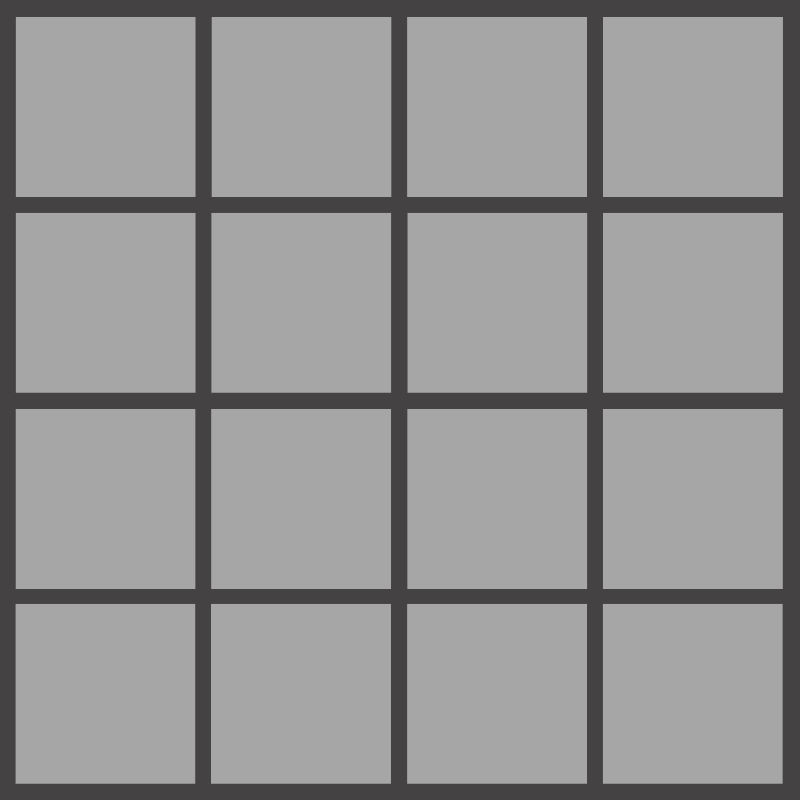
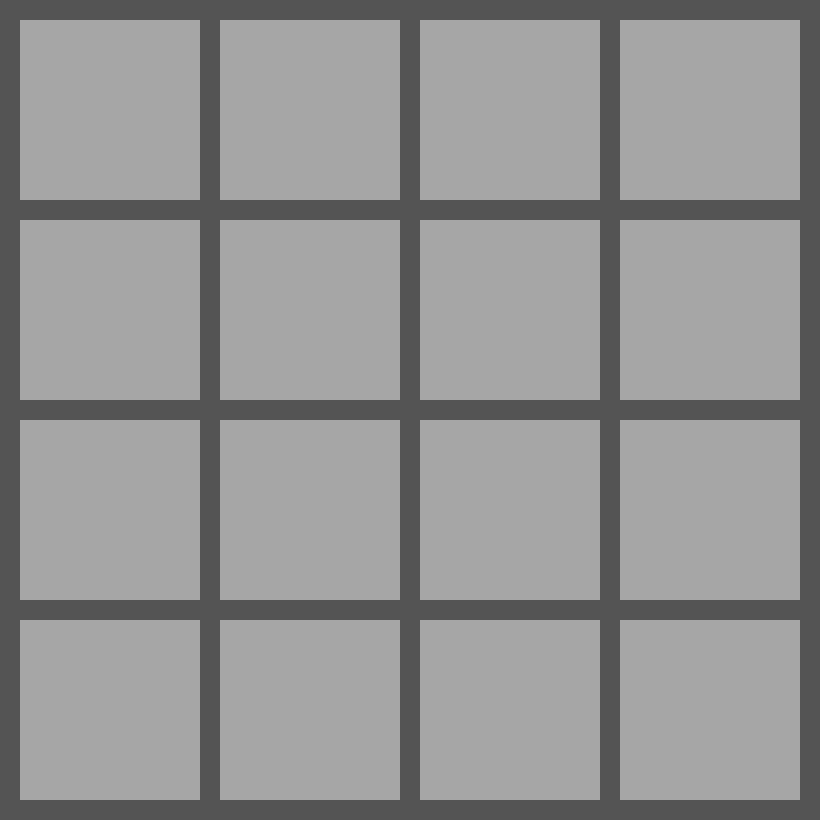
New Grid 820x820 with blocs of 180px and distance of 20px Set points system show + count I found Some bugs in deplacements but I don't know the cause

diff --git a/game.py b/game.py
@@ -7,13 +7,13 @@ class Game:
         self.screen = screen
         # Background
         self.background = pygame.image.load("assets/grid.png")
-        self.background = pygame.transform.scale(self.background, (800, 800))
+        #self.background = pygame.transform.scale(self.background, (800, 800))
         self.background_color = "darkgray"
 
         # Constant
-        self.platform = 16
-        self.TOP_SIZE = 200
-        self.BLOC_SIZE = (self.screen.get_width() - 16*5)/4
+        self.platform = 20
+        self.TOP_SIZE = 172
+        self.BLOC_SIZE = (self.screen.get_width() - self.platform*5)/4
 
         # Grid
         self.grid = [[(self.platform, self.platform + self.TOP_SIZE),
@@ -36,6 +36,13 @@ class Game:
                       (self.platform * 3 + self.BLOC_SIZE * 2, self.platform * 4 + self.BLOC_SIZE * 3 + self.TOP_SIZE),
                       (self.platform * 4 + self.BLOC_SIZE * 3, self.platform * 4 + self.BLOC_SIZE * 3 + self.TOP_SIZE)]]
 
+        # Points
+        self.points = 0
+        self.font_point = pygame.font.SysFont("Arial", 75)
+        self.font_point_x = self.screen.get_width()/2
+        self.font_point_y = 75
+
+
         # Blocs
         self.id = 0
         self.font_bloc = pygame.font.SysFont("Arial", 40)
@@ -54,10 +61,10 @@ class Game:
                 self.blocs_coos = []"""
 
 
-    def set_font_position(self, x, y, value, font):
+    def set_font_position(self, x, y, value, font, surface):
         font_size = font.size(str(value))
-        x_ = x + self.BLOC_SIZE/2 - font_size[0]/2
-        y_ = y + self.BLOC_SIZE/2 - font_size[1]/2
+        x_ = x + surface/2 - font_size[0]/2
+        y_ = y + surface/2 - font_size[1]/2
         return (x_, y_)
 
     def get_2_power(self, num):
@@ -85,12 +92,14 @@ class Game:
 
     def update(self):
         self.screen.fill(self.background_color)
-        self.screen.blit(self.background, (0, 200))
+        self.screen.blit(self.background, (0, self.TOP_SIZE))
+        self.screen.blit(self.font_point.render(str(self.points), True, (0, 0, 0)),
+                         self.set_font_position(self.font_point_x, self.font_point_y, self.points, self.font_point, 0))
         for bloc in self.blocs:
             pygame.draw.rect(self.screen, self.set_color(bloc.value),
                              (bloc.rect.x, bloc.rect.y, bloc.rect.width, bloc.rect.height))
             self.screen.blit(self.font_bloc.render(str(bloc.value), True, (0, 0, 0)),
-                             self.set_font_position(bloc.rect.x, bloc.rect.y, bloc.value, self.font_bloc))
+                             self.set_font_position(bloc.rect.x, bloc.rect.y, bloc.value, self.font_bloc, self.BLOC_SIZE))
             if self.direction == 'left':
                 if not bloc.moved:
                     bloc.left()
@@ -104,15 +113,15 @@ class Game:
                 if not bloc.moved:
                     bloc.up()
             bloc.rect_coo = (bloc.rect.x, bloc.rect.y)
-            self.update_blocs_coos()
-            if self.verify_all_moved():
-                self.all_moved = True
-                if not self.add_block:
-                    self.spawn_block()
-                    self.update_blocs_coos()
-                    self.add_block = True
-            else:
-                self.all_moved = False
+        self.update_blocs_coos()
+        if self.verify_all_moved():
+            self.all_moved = True
+            if not self.add_block:
+                self.spawn_block()
+                self.update_blocs_coos()
+                self.add_block = True
+        else:
+            self.all_moved = False
 
 
     def update_blocs_coos(self):
@@ -147,8 +156,6 @@ class Game:
         for b in self.blocs:
             if b.moved:
                 a += 1
-            else:
-                print(b.rect_coo, self.direction)
         if a == len(self.blocs):
             return True
         return False

diff --git a/bloc.py b/bloc.py
@@ -4,8 +4,6 @@ class Bloc(pygame.sprite.Sprite):
     def __init__(self, game, x, y, value, id):
         super().__init__()
         self.game = game
-        """self.image = pygame.image.load('assets/Player.png')
-        self.image = pygame.transform.scale(self.image, (self.game.BLOC_SIZE, self.game.BLOC_SIZE))"""
         self.rect = pygame.rect.Rect(x, y, self.game.BLOC_SIZE, self.game.BLOC_SIZE)
         self.rect_coo = (self.rect.x, self.rect.y)
         self.blocs = pygame.sprite.Group()
@@ -13,7 +11,7 @@ class Bloc(pygame.sprite.Sprite):
         self.moved = True
         self.fusion_possible = False
         self.fusionned = False
-        self.velocity = 4
+        self.velocity = 20
         self.id = id
 
     def left(self):
@@ -34,6 +32,7 @@ class Bloc(pygame.sprite.Sprite):
                         self.fusion_bloc.fusionned = True
                         self.fusion_bloc.value = self.value * 2
                         self.fusion_bloc.moved = True
+                        self.game.points += self.fusion_bloc.value
                         self.game.blocs.remove(self)
                     else:
                         self.rect.x -= self.velocity
@@ -63,6 +62,7 @@ class Bloc(pygame.sprite.Sprite):
                     self.fusion_bloc.fusionned = True
                     self.fusion_bloc.value = self.value * 2 # fusionner value Double
                     self.fusion_bloc.moved = True
+                    self.game.points += self.fusion_bloc.value
                     self.game.blocs.remove(self) # delete myself
                 else:
                     self.rect.x += self.velocity # go to the right
@@ -90,6 +90,7 @@ class Bloc(pygame.sprite.Sprite):
                     self.fusion_bloc.fusionned = True
                     self.fusion_bloc.value = self.value * 2
                     self.fusion_bloc.moved = True
+                    self.game.points += self.fusion_bloc.value
                     self.game.blocs.remove(self)
                 else:
                     self.rect.y += self.velocity
@@ -117,6 +118,7 @@ class Bloc(pygame.sprite.Sprite):
                     self.fusion_bloc.fusionned = True
                     self.fusion_bloc.value = self.value * 2
                     self.fusion_bloc.moved = True
+                    self.game.points += self.fusion_bloc.value
                     self.game.blocs.remove(self)
                 else:
                     self.rect.y -= self.velocity

diff --git a/main.py b/main.py
@@ -3,7 +3,7 @@ from game import Game
 
 pygame.init()
 pygame.display.set_caption("2048")
-screen = pygame.display.set_mode((800, 1000))
+screen = pygame.display.set_mode((820, 1000))
 clock = pygame.time.Clock()
 FPS = 60
 game = Game(screen)
@@ -20,30 +20,6 @@ while running:
         if event.type == pygame.QUIT:
             running = False
         elif event.type == pygame.KEYDOWN and game.all_moved:
-            """if event.key == pygame.K_LEFT:
-                for b in game.blocs:
-                    b.moved = False
-                    b.fusion_possible = False
-                    b.fusionned = False
-                game.direction = 'left'
-            elif event.key == pygame.K_RIGHT:
-                for b in game.blocs:
-                    b.moved = False
-                    b.fusion_possible = False
-                    b.fusionned = False
-                game.direction = 'right'
-            elif event.key == pygame.K_DOWN:
-                for b in game.blocs:
-                    b.moved = False
-                    b.fusion_possible = False
-                    b.fusionned = False
-                game.direction = 'down'
-            elif event.key == pygame.K_UP:
-                for b in game.blocs:
-                    b.moved = False
-                    b.fusion_possible = False
-                    b.fusionned = False
-                game.direction = 'up'"""
             if event.key == pygame.K_LEFT or event.key == pygame.K_RIGHT or event.key == pygame.K_DOWN or event.key == pygame.K_UP:
                 for b in game.blocs:
                     b.moved = False
